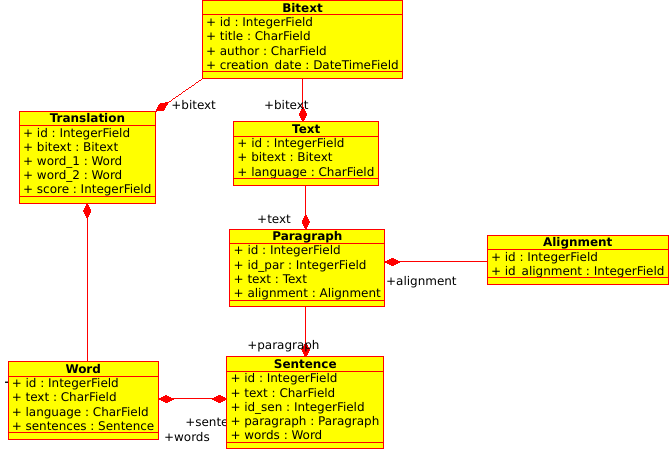
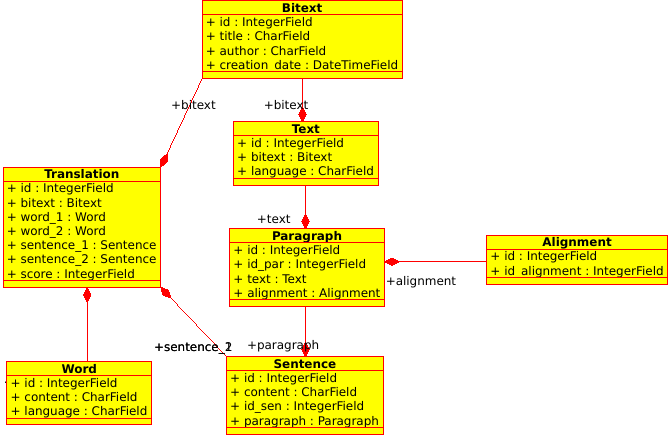
un dictionnaire c'est bien, un dico qui marche c'est mieux

diff --git a/front/src/components/WordList.js b/front/src/components/WordList.js
@@ -1,7 +1,7 @@
 import React, { Component } from 'react'
 import { graphql } from 'react-apollo'
 import gql from 'graphql-tag'
-import {  } from 'semantic-ui-react'
+import { Grid, Segment } from 'semantic-ui-react'
 
 class WordList extends Component {
 
@@ -19,7 +19,29 @@ class WordList extends Component {
     }
     return(
       <ul>
-        { translationsToRender.map( translation => (<li key={translation.id}>{language === 'english' ? translation.word2.content : translation.word1.content }</li>) ) }
+        { translationsToRender.map( translation => (
+          <li key={translation.id}>
+            <p>{language === 'english' ? translation.word2.content : translation.word1.content }</p>
+            <Grid columns={2} divided='vertically'>
+              <Grid.Row>
+                <Grid.Column>
+                  <Segment>
+                    {translation.word1.sentences.map(sentence => (
+                      <span>{sentence.content}<br /></span>
+                    ))}
+                  </Segment>
+                </Grid.Column>
+                <Grid.Column>
+                  <Segment>
+                    {translation.word2.sentences.map(sentence => (
+                      <span>{sentence.content}<br /></span>
+                    ))}
+                  </Segment>
+                </Grid.Column>
+              </Grid.Row>
+            </Grid>
+          </li>
+        ))}
       </ul>
     )
 

diff --git a/front/src/components/AlignedBitext.js b/front/src/components/AlignedBitext.js
@@ -31,6 +31,7 @@ class AlignedBitext extends Component {
     return(
       <div>
         <Dropdown placeholder='Select bitext' fluid search selection options={bitextOptions} onChange={this.handleInputChange} loading={this.props.bitextQuery && this.props.bitextQuery.loading} />
+        <br />
         { this.state.bitextId ? <AlignerResponse bitextId={this.state.bitextId} /> : null }
       </div>
     );

diff --git a/front/src/components/AlignerResponse.js b/front/src/components/AlignerResponse.js
@@ -18,7 +18,6 @@ class AlignerResponse extends Component {
     }
     return(
       <div>
-        <p>C&#39;est partie !</p>
         <Grid columns={2} divided='vertically'>
           {alignmentsToRender.map(alignment => (
             <Grid.Row>
